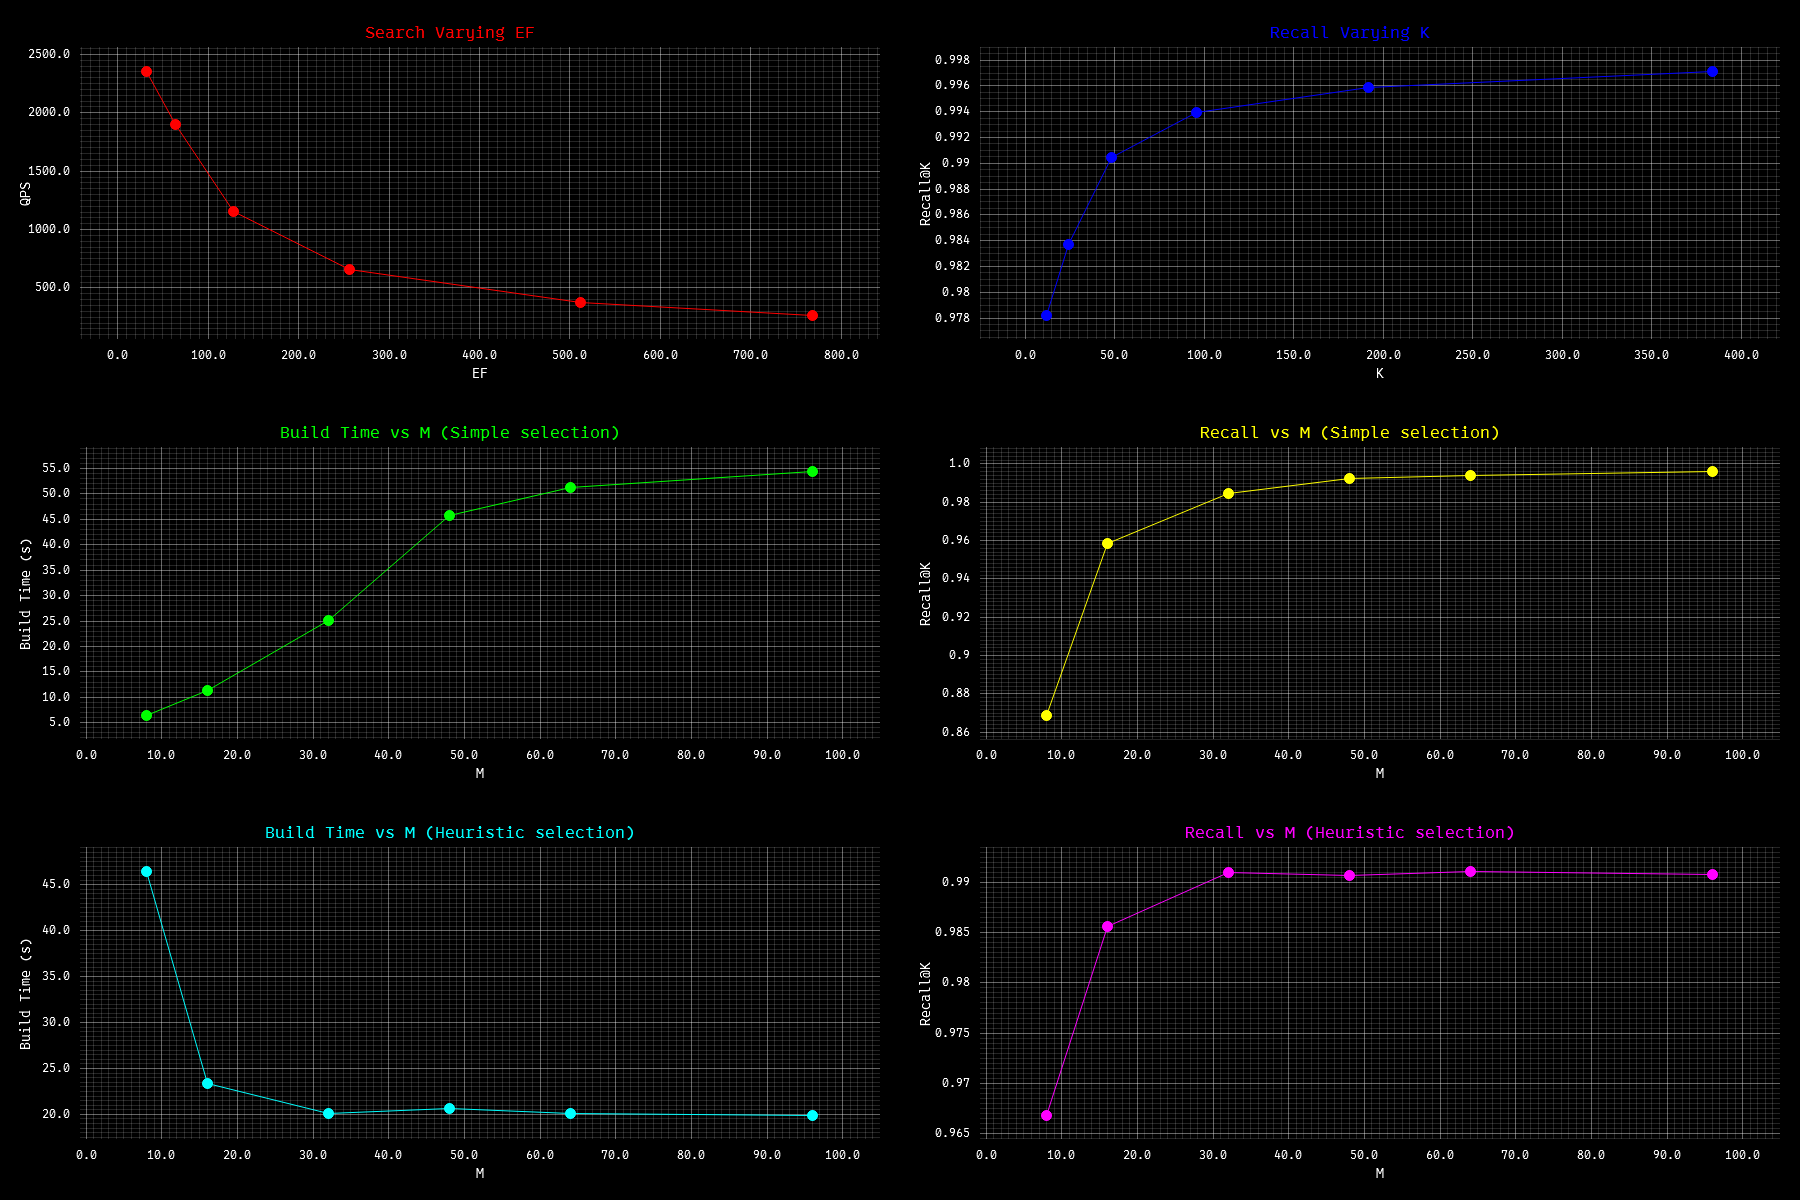
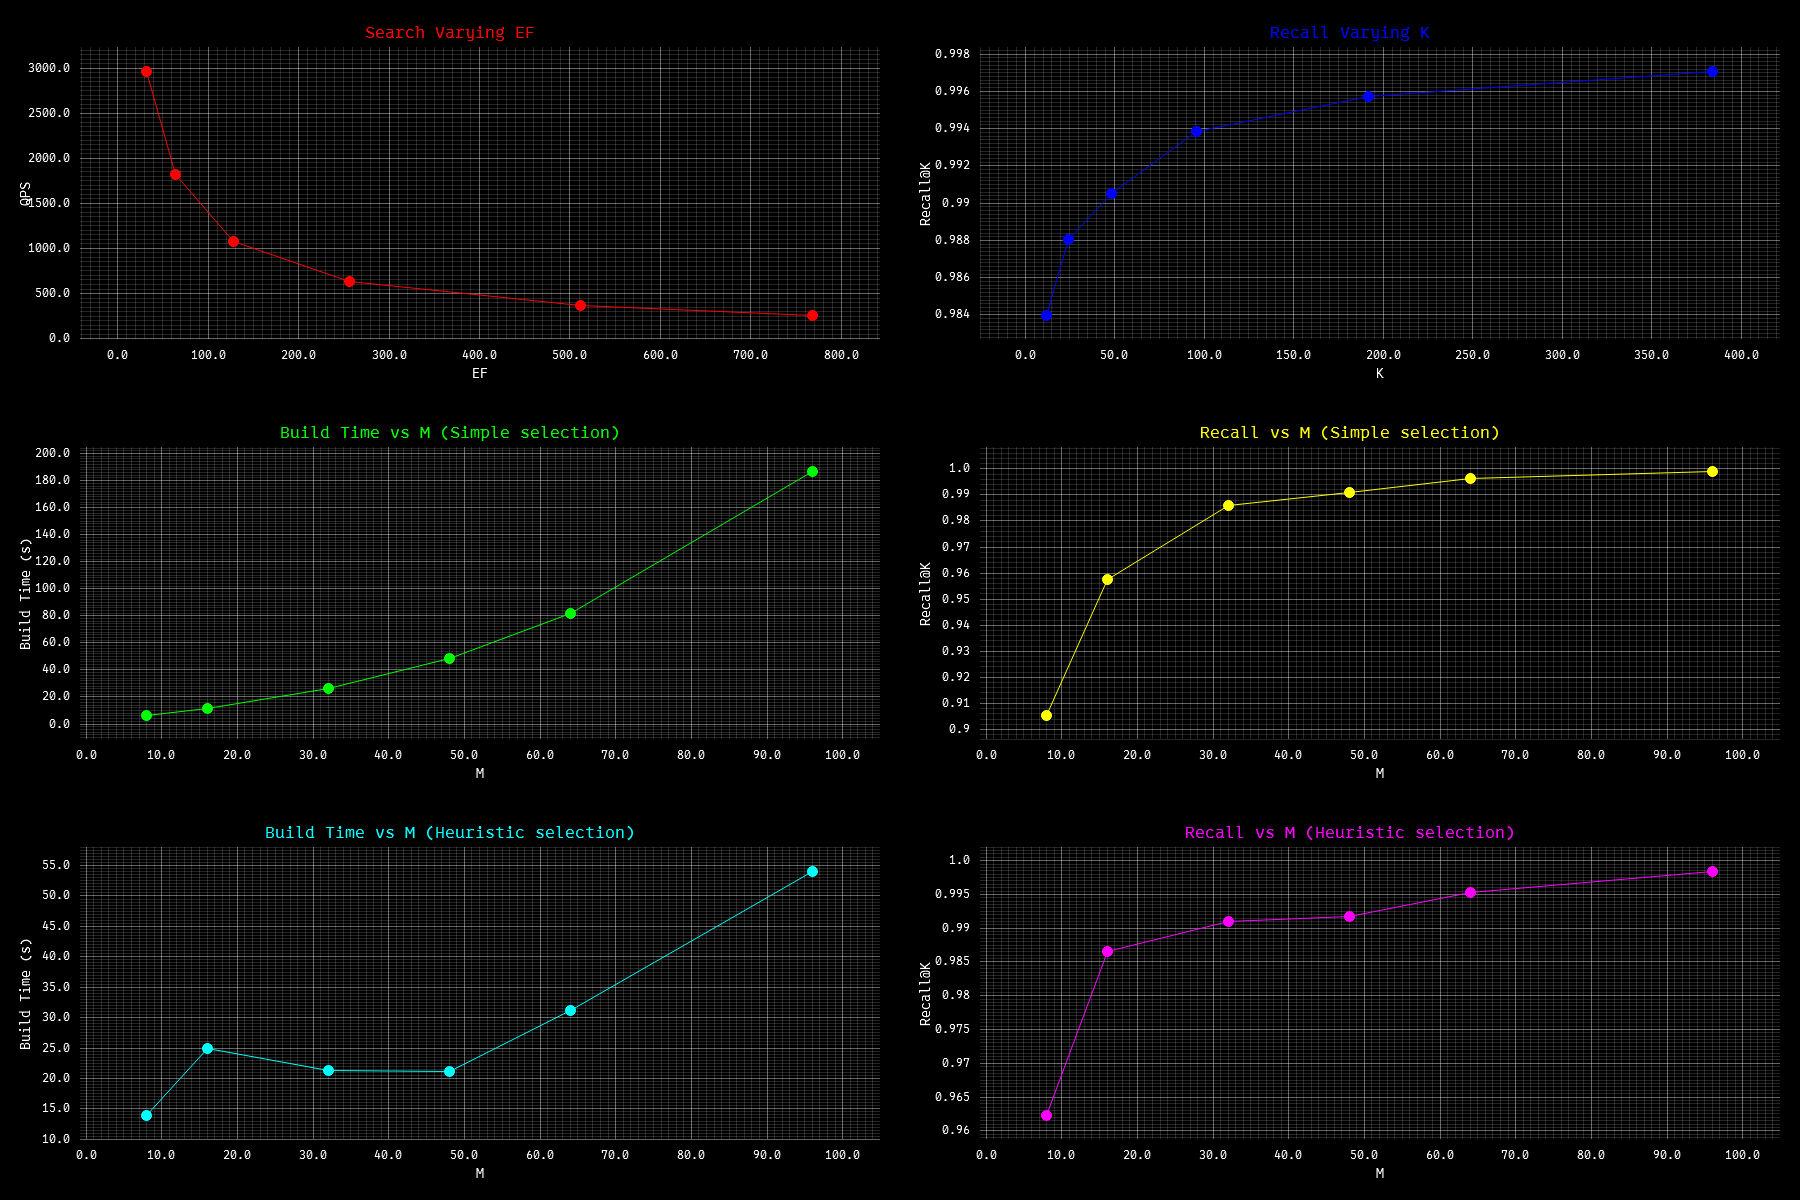
chore: run bench, micro-opt math module

diff --git a/src/maths.rs b/src/maths.rs
@@ -5,8 +5,7 @@ use wincode::{SchemaRead, SchemaWrite};
 /// Helper function to reduce a SIMD vector to a scalar by summing its elements
 #[inline(always)]
 fn from_f32x8(v: f32x8) -> f32 {
-    let a = v.to_array();
-    a[0] + a[1] + a[2] + a[3] + a[4] + a[5] + a[6] + a[7]
+    v.to_array().iter().sum()
 }
 
 /// Supported similarity metrics for vector search
@@ -48,9 +47,13 @@ pub unsafe fn cosine_similarity(a: &[f32], b: &[f32]) -> f32 {
 
     // process 32 elements per iteration (4 * 8-lane vectors)
     let chunks = a.len() / LANE;
-    let mut dot = f32x8::ZERO;
-    let mut norm_a = f32x8::ZERO;
-    let mut norm_b = f32x8::ZERO;
+
+    let mut dot0 = f32x8::ZERO;
+    let mut dot1 = f32x8::ZERO;
+    let mut na0 = f32x8::ZERO;
+    let mut na1 = f32x8::ZERO;
+    let mut nb0 = f32x8::ZERO;
+    let mut nb1 = f32x8::ZERO;
 
     let a_ptr = a.as_ptr();
     let b_ptr = b.as_ptr();
@@ -78,27 +81,27 @@ pub unsafe fn cosine_similarity(a: &[f32], b: &[f32]) -> f32 {
             let vb2 = f32x8::from(read_unaligned(vb2_ptr as *const [f32; 8]));
             let vb3 = f32x8::from(read_unaligned(vb3_ptr as *const [f32; 8]));
 
-            dot = va0.mul_add(vb0, dot);
-            dot = va1.mul_add(vb1, dot);
-            dot = va2.mul_add(vb2, dot);
-            dot = va3.mul_add(vb3, dot);
+            dot0 = va0.mul_add(vb0, dot0);
+            dot1 = va1.mul_add(vb1, dot1);
+            dot0 = va2.mul_add(vb2, dot0);
+            dot1 = va3.mul_add(vb3, dot1);
 
-            norm_a = va0.mul_add(va0, norm_a);
-            norm_a = va1.mul_add(va1, norm_a);
-            norm_a = va2.mul_add(va2, norm_a);
-            norm_a = va3.mul_add(va3, norm_a);
+            na0 = va0.mul_add(va0, na0);
+            na1 = va1.mul_add(va1, na1);
+            na0 = va2.mul_add(va2, na0);
+            na1 = va3.mul_add(va3, na1);
 
-            norm_b = vb0.mul_add(vb0, norm_b);
-            norm_b = vb1.mul_add(vb1, norm_b);
-            norm_b = vb2.mul_add(vb2, norm_b);
-            norm_b = vb3.mul_add(vb3, norm_b);
+            nb0 = vb0.mul_add(vb0, nb0);
+            nb1 = vb1.mul_add(vb1, nb1);
+            nb0 = vb2.mul_add(vb2, nb0);
+            nb1 = vb3.mul_add(vb3, nb1);
         }
     }
 
     // reduce scalars
-    let mut dot_sum = from_f32x8(dot);
-    let mut na_sum = from_f32x8(norm_a);
-    let mut nb_sum = from_f32x8(norm_b);
+    let mut dot_sum = from_f32x8(dot0 + dot1);
+    let mut na_sum = from_f32x8(na0 + na1);
+    let mut nb_sum = from_f32x8(nb0 + nb1);
 
     // handle remaining elements
     let remainder_start = chunks * LANE;
@@ -159,7 +162,11 @@ pub unsafe fn dot_product(a: &[f32], b: &[f32]) -> f32 {
     const LANE: usize = 32;
 
     let chunks = a.len() / LANE;
-    let mut sum = f32x8::ZERO;
+
+    let mut sum0 = f32x8::ZERO;
+    let mut sum1 = f32x8::ZERO;
+    let mut sum2 = f32x8::ZERO;
+    let mut sum3 = f32x8::ZERO;
 
     let a_ptr = a.as_ptr();
     let b_ptr = b.as_ptr();
@@ -187,15 +194,15 @@ pub unsafe fn dot_product(a: &[f32], b: &[f32]) -> f32 {
             let vb2 = f32x8::from(read_unaligned(vb2_ptr as *const [f32; 8]));
             let vb3 = f32x8::from(read_unaligned(vb3_ptr as *const [f32; 8]));
 
-            sum = va0.mul_add(vb0, sum);
-            sum = va1.mul_add(vb1, sum);
-            sum = va2.mul_add(vb2, sum);
-            sum = va3.mul_add(vb3, sum);
+            sum0 = va0.mul_add(vb0, sum0);
+            sum1 = va1.mul_add(vb1, sum1);
+            sum2 = va2.mul_add(vb2, sum2);
+            sum3 = va3.mul_add(vb3, sum3);
         }
     }
 
     // reduce scalar
-    let mut total_sum = from_f32x8(sum);
+    let mut total_sum = from_f32x8((sum0 + sum1) + (sum2 + sum3));
 
     // handle remainder
     let remainder_start = chunks * LANE;
@@ -213,7 +220,11 @@ pub unsafe fn dot_product(a: &[f32], b: &[f32]) -> f32 {
 pub unsafe fn euclidean_similarity(a: &[f32], b: &[f32]) -> f32 {
     const LANE: usize = 32;
     let chunks = a.len() / LANE;
-    let mut sum_sq = f32x8::ZERO;
+
+    let mut sumsq0 = f32x8::ZERO;
+    let mut sumsq1 = f32x8::ZERO;
+    let mut sumsq2 = f32x8::ZERO;
+    let mut sumsq3 = f32x8::ZERO;
 
     let a_ptr = a.as_ptr();
     let b_ptr = b.as_ptr();
@@ -246,15 +257,15 @@ pub unsafe fn euclidean_similarity(a: &[f32], b: &[f32]) -> f32 {
             let d2 = va2 - vb2;
             let d3 = va3 - vb3;
 
-            sum_sq = d0.mul_add(d0, sum_sq);
-            sum_sq = d1.mul_add(d1, sum_sq);
-            sum_sq = d2.mul_add(d2, sum_sq);
-            sum_sq = d3.mul_add(d3, sum_sq);
+            sumsq0 = d0.mul_add(d0, sumsq0);
+            sumsq1 = d1.mul_add(d1, sumsq1);
+            sumsq2 = d2.mul_add(d2, sumsq2);
+            sumsq3 = d3.mul_add(d3, sumsq3);
         }
     }
 
     // reduce to scalar
-    let mut dist = from_f32x8(sum_sq);
+    let mut dist = from_f32x8((sumsq0 + sumsq1) + (sumsq2 + sumsq3));
 
     // handle remainder
     let remainder_start = chunks * LANE;

diff --git a/src/hnsw.rs b/src/hnsw.rs
@@ -129,7 +129,7 @@ pub const DEFAULT_EF_INC_FACTOR: f32 = 1.572;
 /// **Insert**: Search from top layer down, connect at each layer bidirectionally
 /// **Search**: Greedy descent through upper layers, bounded knn-search at bottom layer
 /// **Pruning**: Keep only M closest neighbors per node per layer
-/// **Tombstones**: Mark deleted nodes and skip during search, periodic cleanup & reindexing
+/// **Tombstones**: Mark deleted nodes and ONLY skip during search end collection, periodic cleanup & reindexing
 ///
 ///```rust
 ///use hnsw_rs::prelude::*;
@@ -150,7 +150,7 @@ pub const DEFAULT_EF_INC_FACTOR: f32 = 1.572;
 ///        let mut id = [0u8; 32];
 ///        fastrand::fill(&mut id); // 256-bit random [u8; 32]
 ///        let level_asg = hnsw.get_random_level(); // compute mL from M
-///        let metadata = vec![]; // metadata can be anything (std vec<u8>)
+///        let metadata = vec![]; // metadata can be anything (std vec<u8> for now)
 ///        hnsw.insert(id, vector, metadata, level_asg).unwrap();
 ///    }
 ///

diff --git a/README.md b/README.md
@@ -1,6 +1,6 @@
 An implementation of **HNSW (Hierarchical Navigable Small World)** algorithm for approximate nearest neighbor search.
-This is pretty much "paper-compliant" based on the [original paper](https://arxiv.org/pdf/1603.09320),
-it is simplified & documentated version and easy to understand & reason, while still being *reasonably* efficient and
+This is pretty much "paper-compliant" based on the [paper](https://arxiv.org/pdf/1603.09320),
+its simplified, well documentated and easy to understand & reason, while still being *reasonably* efficient and
 robust, I guess
 
 Checkout this repo: [blaze-db](https://github.com/ronakgh97/blaze-db), which is a vector database built on top of this
@@ -11,7 +11,7 @@ HNSW implementation.
 Make sure to have cargo & this [dataset](https://huggingface.co/datasets/KShivendu/dbpedia-entities-openai-1M)
 
 ```shell
-cargo run --bench bench  -- ../../datasets/dim1536_size1M 4
+cargo run --bench bencher  -- ../../datasets/dim1536_size1M 4
                                          <path to dataset> <num of files to read>
 ```
 
@@ -19,42 +19,42 @@ cargo run --bench bench  -- ../../datasets/dim1536_size1M 4
 # Alg. 3 (simple, paper default): max_n: 16, ef_const: 96, max_l: 18, metrics: cosine
 Total vectors: 153848, dimension: 1536
 Building index with 153848 vectors...
-Index built in 220.0763757s and cached to disk.
+Index built in 192.6493946s and cached to disk.
 
-Search with ef: 32 took, QPS: 3123.18
-Search with ef: 64 took, QPS: 1914.70
-Search with ef: 128 took, QPS: 949.07
-Search with ef: 256 took, QPS: 639.72
-Search with ef: 512 took, QPS: 387.17
-Search with ef: 768 took, QPS: 275.18
+Search with ef: 32 took, QPS: 2962.89
+Search with ef: 64 took, QPS: 1816.19
+Search with ef: 128 took, QPS: 1077.24
+Search with ef: 256 took, QPS: 628.19
+Search with ef: 512 took, QPS: 366.36
+Search with ef: 768 took, QPS: 255.27
 
-Recall@12: 0.9830, Time: 32.465973
-Recall@24: 0.9860, Time: 33.647808
-Recall@48: 0.9898, Time: 34.24965
-Recall@96: 0.9939, Time: 36.305805
-Recall@192: 0.9958, Time: 37.395786
-Recall@384: 0.9971, Time: 40.241714
+Recall@12: 0.9840, Time: 33.698933
+Recall@24: 0.9880, Time: 33.94069
+Recall@48: 0.9905, Time: 35.086285
+Recall@96: 0.9938, Time: 36.234673
+Recall@192: 0.9957, Time: 37.509235
+Recall@384: 0.9971, Time: 40.862423
 
 # same config varying M (Alg. 3), sample_size: 32540
-# Note: ef_const is NOT scales with M (ef_const = max(96, 2*M)) during this run
-Simple selection (Alg. 3, paper default)
-Build with M=8, time: 6.40s, Recall@32: 0.8687
-Build with M=16, time: 11.25s, Recall@32: 0.9587
-Build with M=32, time: 25.16s, Recall@32: 0.9847
-Build with M=48, time: 45.78s, Recall@32: 0.9927
-Build with M=64, time: 51.29s, Recall@32: 0.9940
-Build with M=96, time: 54.42s, Recall@32: 0.9961
+# Note: ef_const IS scales with M (ef_const = max(96, 2*M)) during this run
+Build with M=8, time: 6.2587913s Recall@32: 0.9053
+Build with M=16, time: 11.6744722s Recall@32: 0.9576
+Build with M=32, time: 26.3725161s Recall@32: 0.9858
+Build with M=48, time: 48.2179436s Recall@32: 0.9909
+Build with M=64, time: 81.9606533s Recall@32: 0.9962
+Build with M=96, time: 186.7846211s Recall@32: 0.9990
 
 Heuristic selection (Alg. 4, opt-in via with_options)
-Build with M=8, time: 46.45s, Recall@32: 0.9668
-Build with M=16, time: 23.35s, Recall@32: 0.9857
-Build with M=32, time: 20.12s, Recall@32: 0.9909
-Build with M=48, time: 20.67s, Recall@32: 0.9907
-Build with M=64, time: 20.12s, Recall@32: 0.9911
-Build with M=96, time: 19.87s, Recall@32: 0.9908
+Build with M=8, time: 13.8949517s Recall@32: 0.9622
+Build with M=16, time: 24.938555s Recall@32: 0.9865
+Build with M=32, time: 21.2540349s Recall@32: 0.9910
+Build with M=48, time: 21.0623812s Recall@32: 0.9918
+Build with M=64, time: 31.1729254s Recall@32: 0.9953
+Build with M=96, time: 54.0370665s Recall@32: 0.9984
 ```
 
 **some observations**
+on [commit](https://github.com/ronakgh97/hnsw-rs/commit/57aa9fd42877c267e22645d7821c1f671ed76896)
 
 - `ef_const = max(96, 2*M)` ensures candidate pool scales with Mmax0 (2*M at layer 0) for both algorithm, but in this
   run, we keep it fixed at 96 to isolate the effect of M